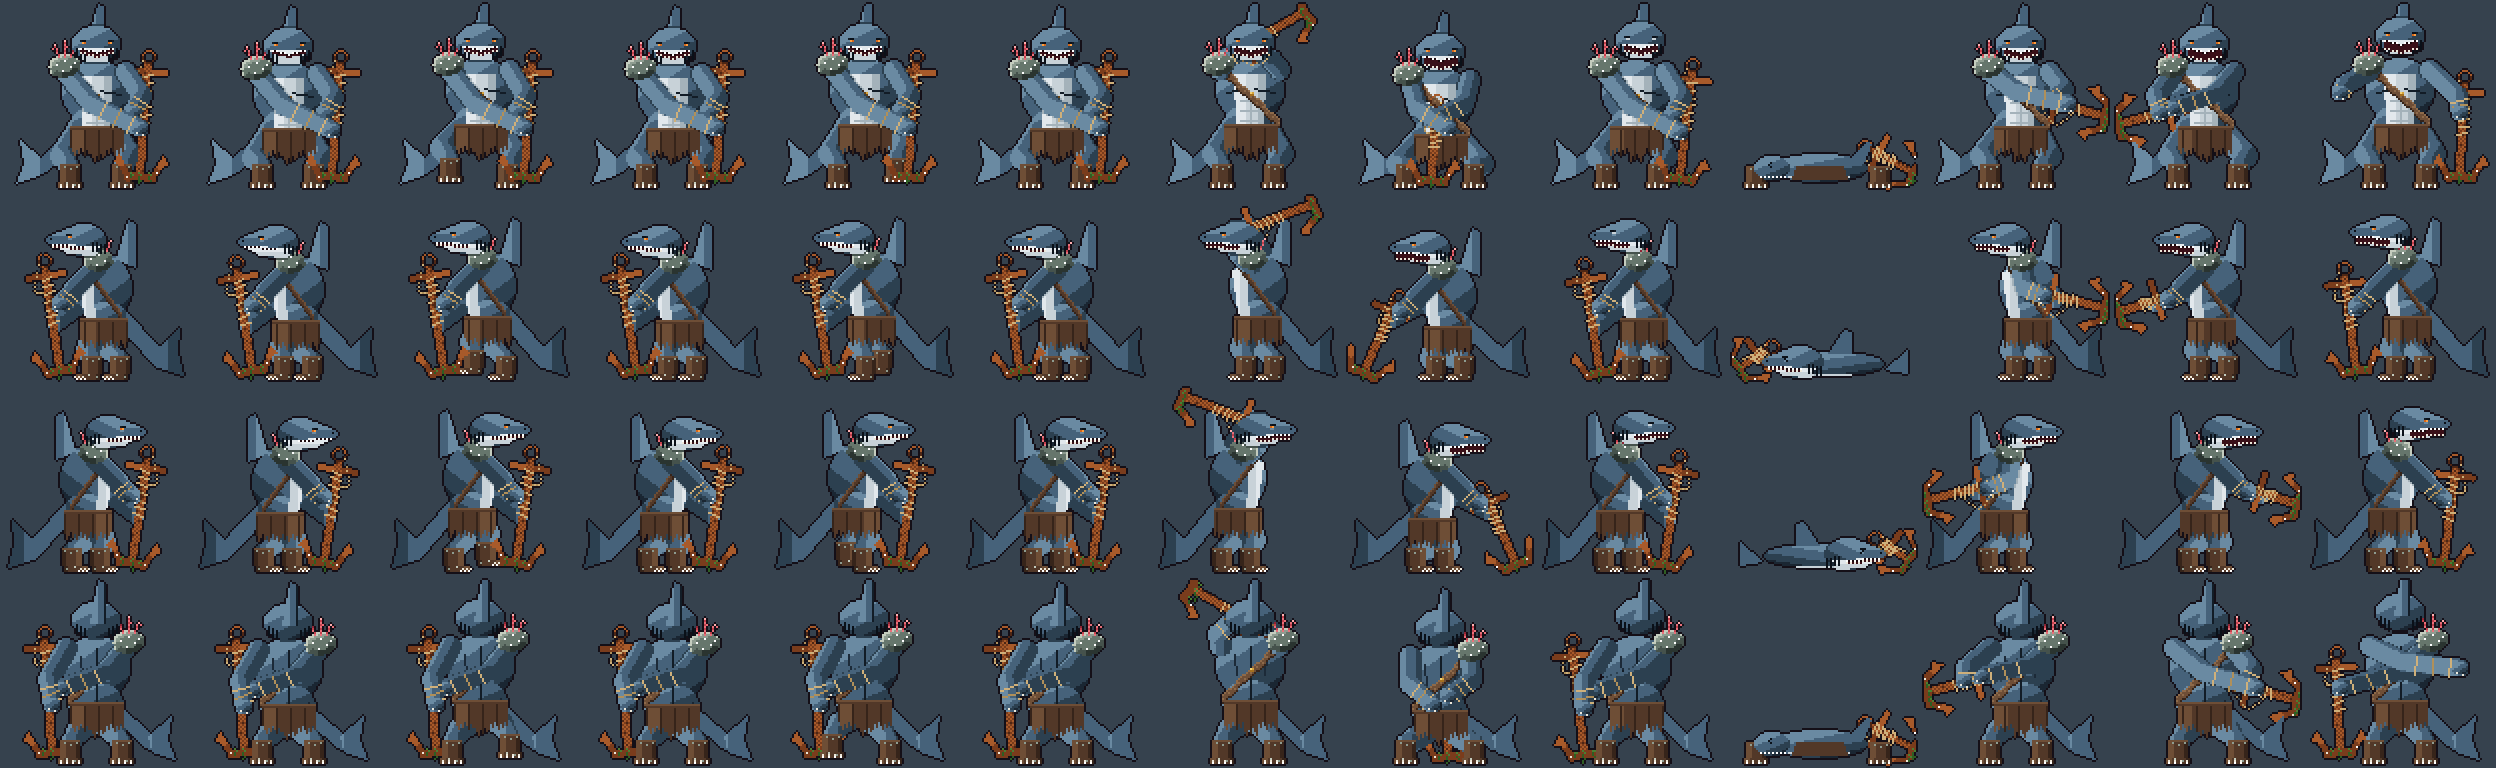
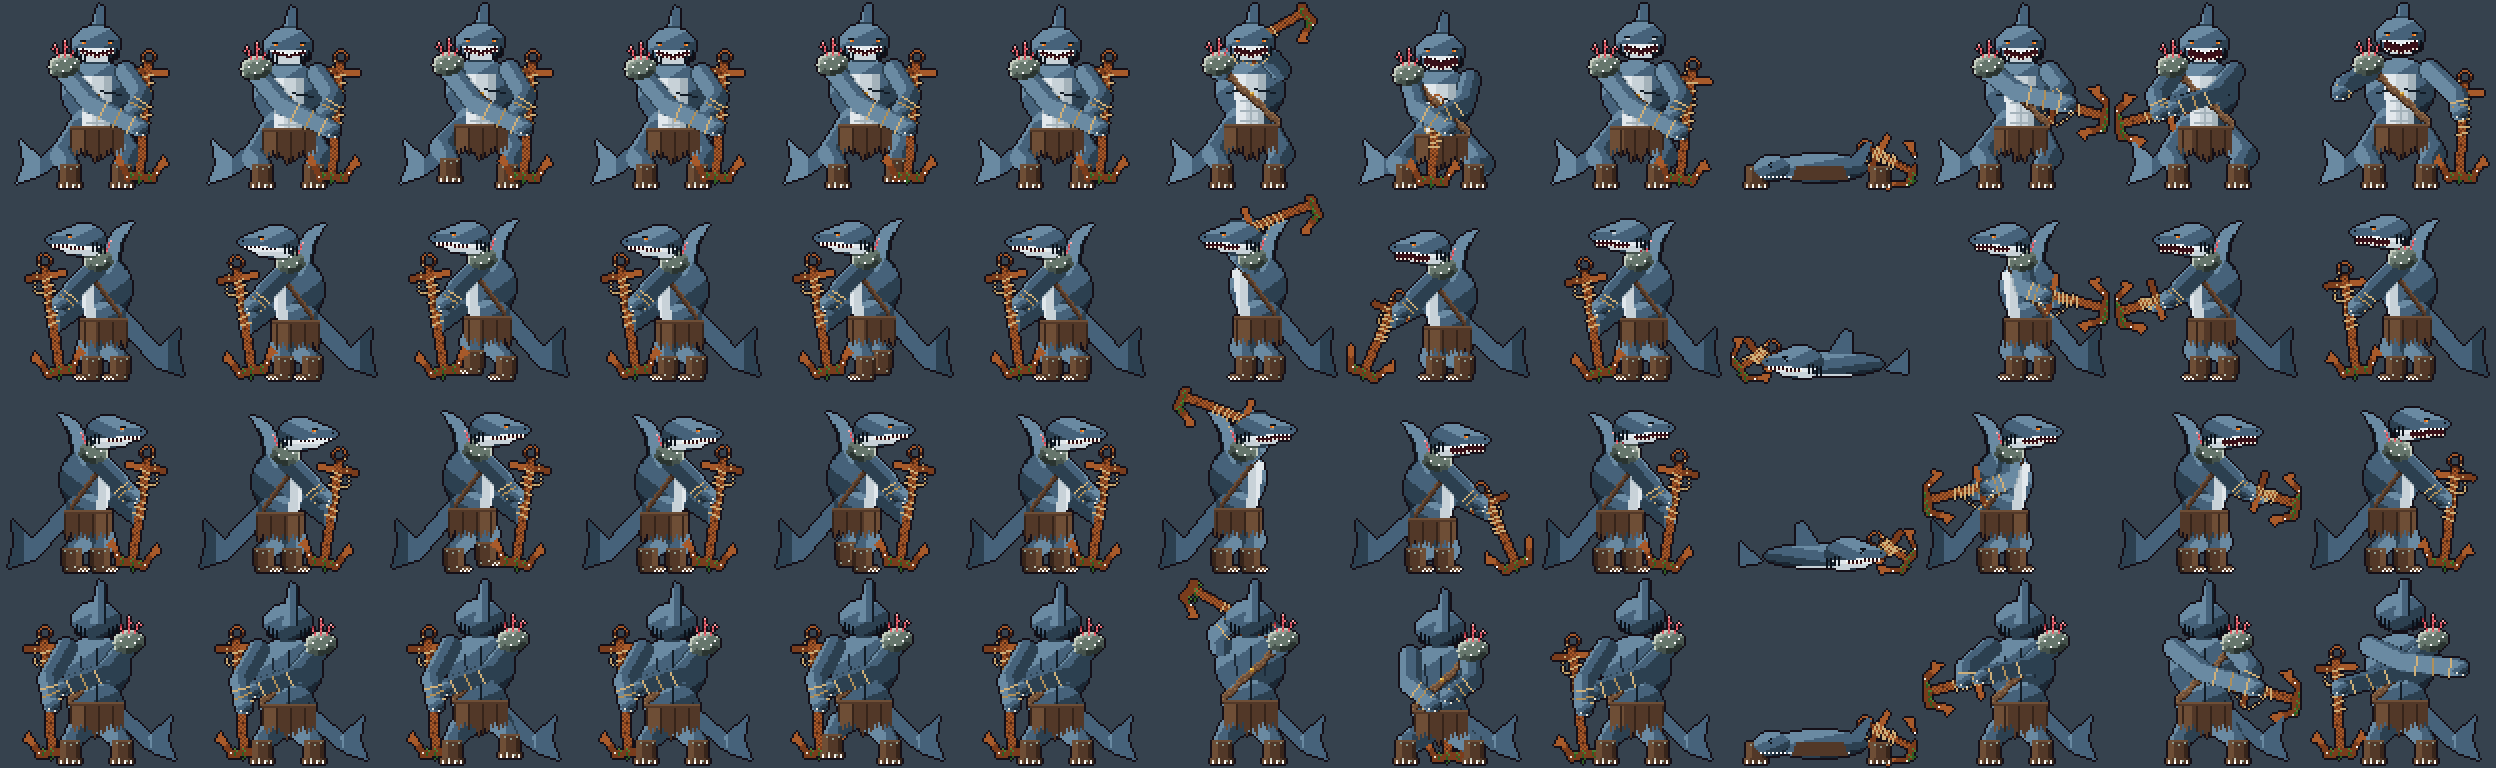
shark-boss: the side view's dorsal fin grows out of the back
It was a separate narrow plate behind the shoulders, outlined apart from
the body. Now it is painted with the torso (no outline between them):
a wide base sunk into the back, a convex leading edge, a concave
trailing edge and a point swept back.

diff --git a/src/engine/pixel/MonsterSprites.js b/src/engine/pixel/MonsterSprites.js
@@ -1633,8 +1633,25 @@ function drawSharkSide(p, key) {
   p.end();
   // torso: the deep chest, the white belly in front, the back's dorsal fin
   p.begin(null);
-  fillPoly(p, [[tor[0] + 6, 34 + bob], [tor[0] + 12, 14 + bob], [tor[0] + 16, 16 + bob], [tor[0] + 16, 38 + bob]], M.FUR, (x) => (x < tor[0] + 12 ? 3 : 2));
   blob(p, tor[0], tor[1], 14, 16, M.FUR, { hi: 0.45, lo: -0.25 });
+  // the dorsal fin, part of the back (same part: no outline between them): a wide base sunk into
+  // the shoulders, a convex leading edge sweeping up and back, a concave trailing edge
+  {
+    const bx = tor[0], by = 40 + bob;
+    const fin = [];
+    // leading edge: up from the shoulders, convex, to the point swept back
+    for (let i = 0; i <= 10; i++) { const t = i / 10; fin.push([bx - 3 + 18 * t ** 1.6, by - 25 * Math.sin(t * Math.PI / 2)]); }
+    // trailing edge: down from the point, bowed in, to the back
+    for (let i = 1; i <= 8; i++) { const t = i / 8; fin.push([bx + 15 - 6 * t - 3 * Math.sin(t * Math.PI), by - 25 + 24 * t]); }
+    fin.push([bx + 10, by + 3]);
+    fillPoly(p, fin, M.FUR, (x, y) => (x < bx + 3 + (by - y) * 0.45 ? 3 : 2));
+    // the fin's dark trailing rim and a lit leading edge
+    for (let y = by - 19; y <= by - 2; y++) {
+      let x = bx + 16;
+      while (x > bx && p.get(x, y) !== M.FUR) x--;
+      if (x > bx + 6) p.set(x, y, M.FUR2, 1);
+    }
+  }
   blob(p, tor[0] + 1, 61 + bob, 10, 6, M.FUR, { hi: 0.45, lo: -0.25 });
   fillPoly(p, [[tor[0] - 13, 40 + bob], [tor[0] - 6, 38 + bob], [tor[0] - 4, 64 + bob], [tor[0] - 10, 62 + bob]], M.FUR3, (x) => (x < tor[0] - 9 ? 3 : 2));
   p.end();
